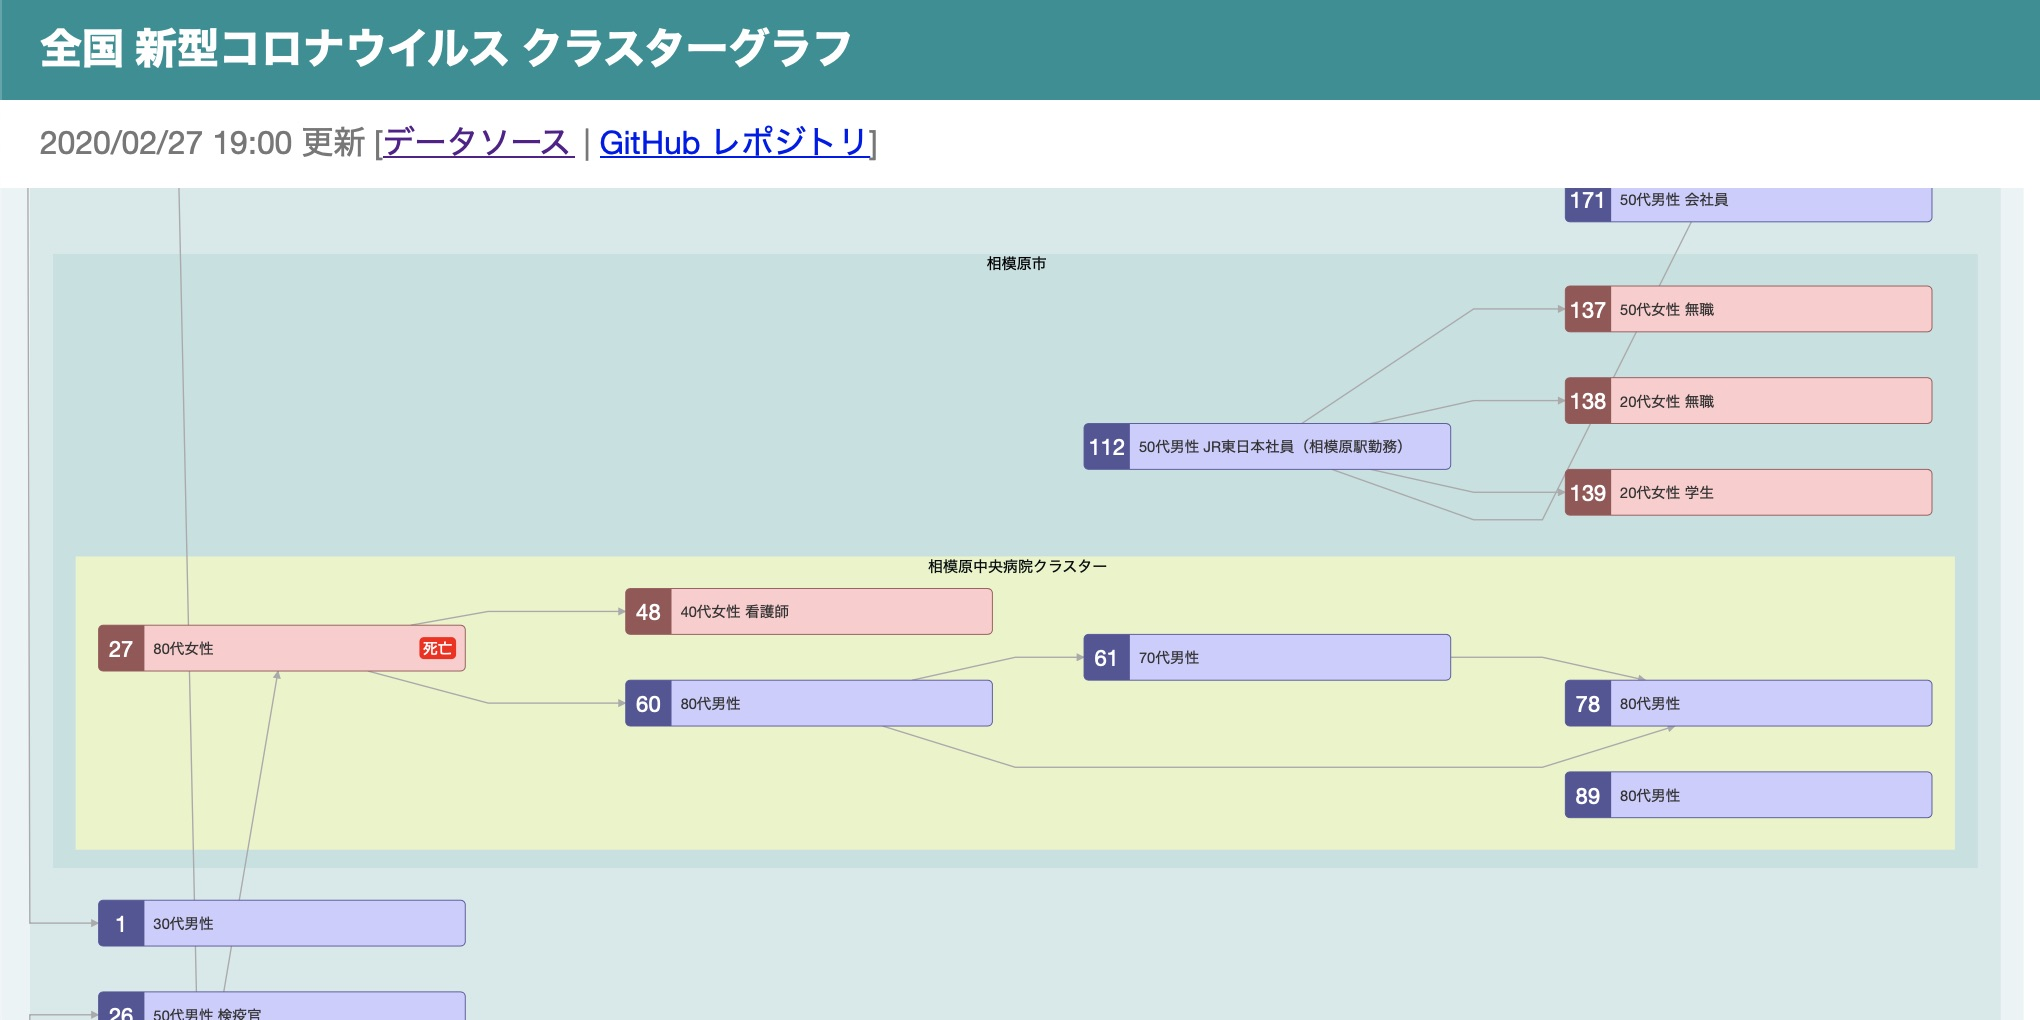
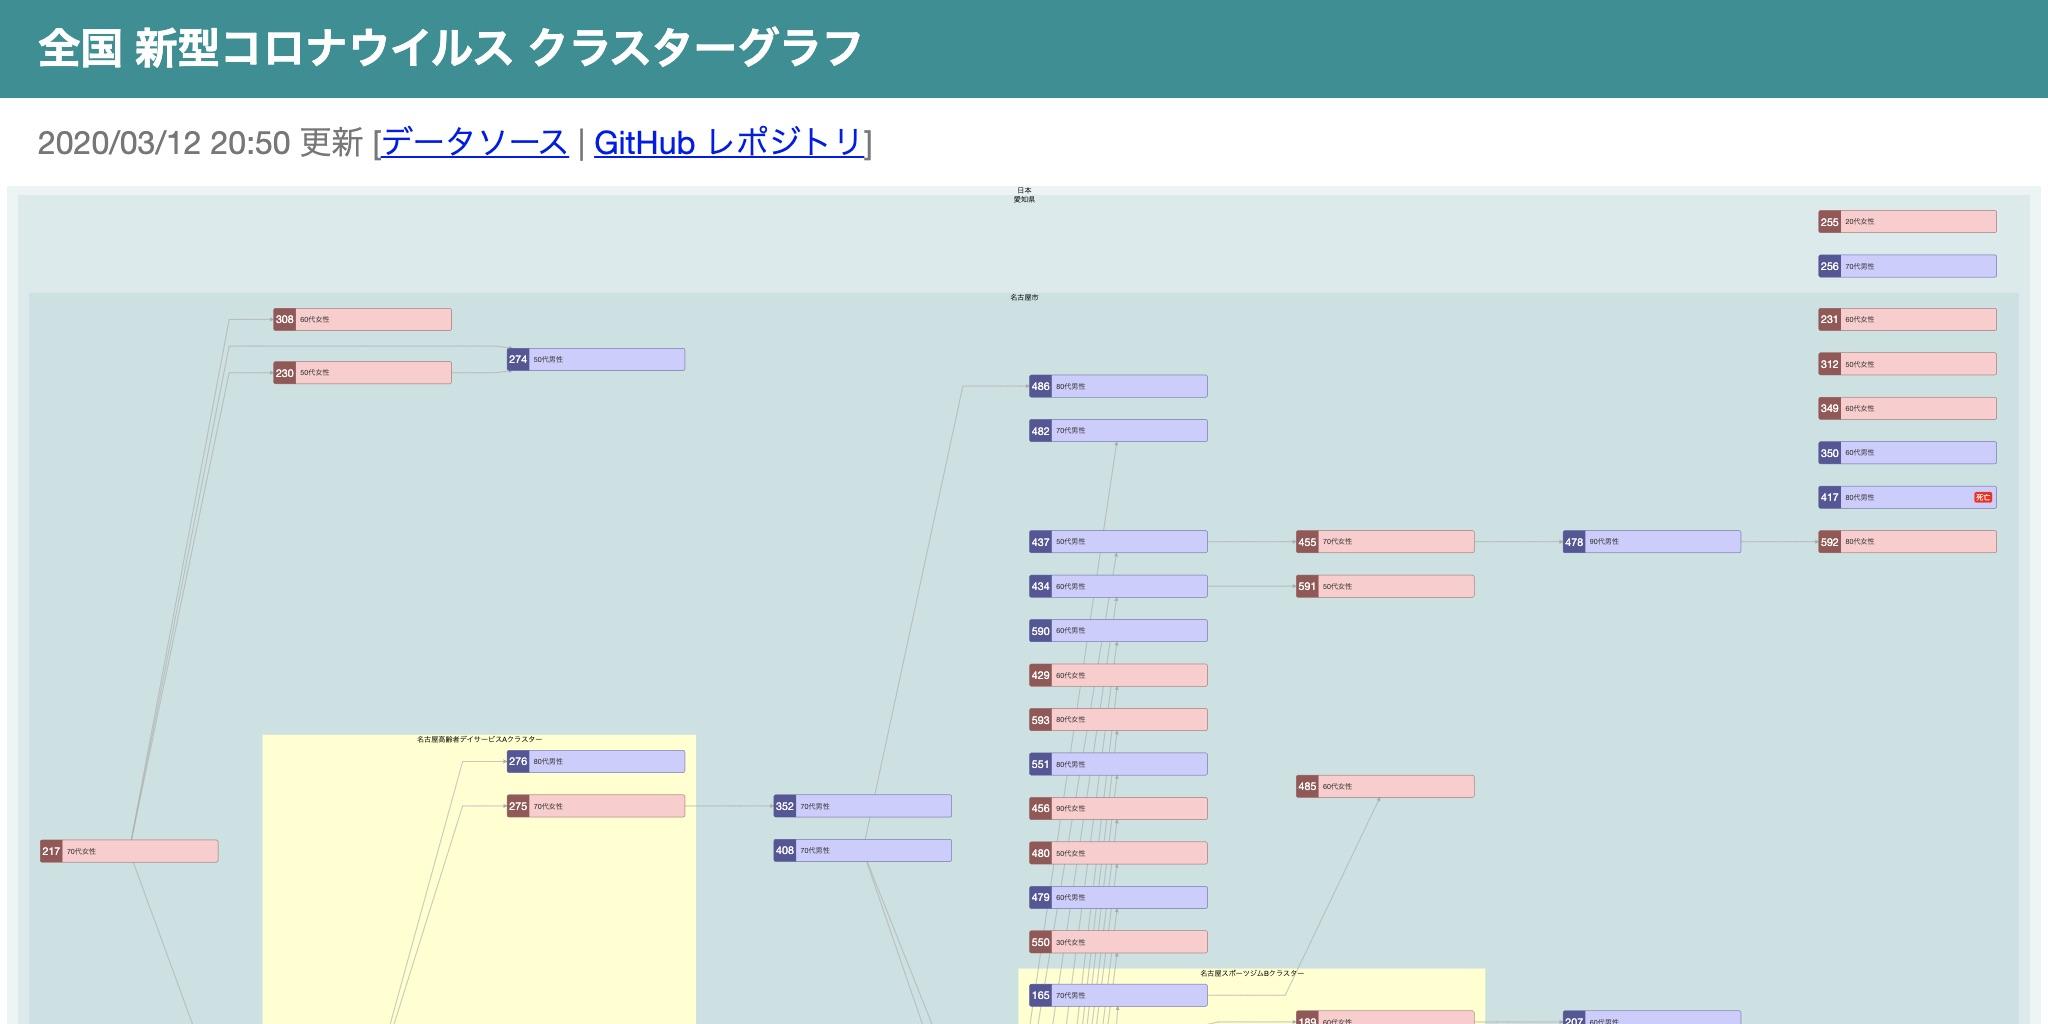
Change the initial scale

diff --git a/js/main.js b/js/main.js
@@ -21,7 +21,6 @@
 var DATA_URL = 'data';
 var DATA_FILE = 'data.json';
 var THEME_COLOR = '#009094';
-var INITIAL_SCALE = 0.66;
 var GRAPH_MARGIN = 20;
 
 var initialNodes = [
@@ -333,7 +332,7 @@ loadData('japan').then(function(patients) {
 		var dx = clientWidth / k - width;
 		var dy = clientHeight / k - height;
 		var extent = [
-			Math.min(xScale, yScale, INITIAL_SCALE),
+			Math.min(xScale, yScale),
 			Math.max(xScale, yScale, 1)
 		];
 		var scale = Math.min(Math.max(k, extent[0]), extent[1]);
@@ -356,9 +355,10 @@ loadData('japan').then(function(patients) {
 	resetHeight();
 	redraw({
 		transform: {
-			k: INITIAL_SCALE,
-			x: Math.max((svgElement.clientWidth / INITIAL_SCALE - width) / 2, GRAPH_MARGIN),
-			y: Math.max((svgElement.clientHeight / INITIAL_SCALE - height) / 2, GRAPH_MARGIN)
+			k: Math.min(Math.max(
+				svgElement.clientWidth / (width + GRAPH_MARGIN * 2),
+				svgElement.clientHeight / (height + GRAPH_MARGIN * 2)
+			), 1)
 		}
 	});
 
